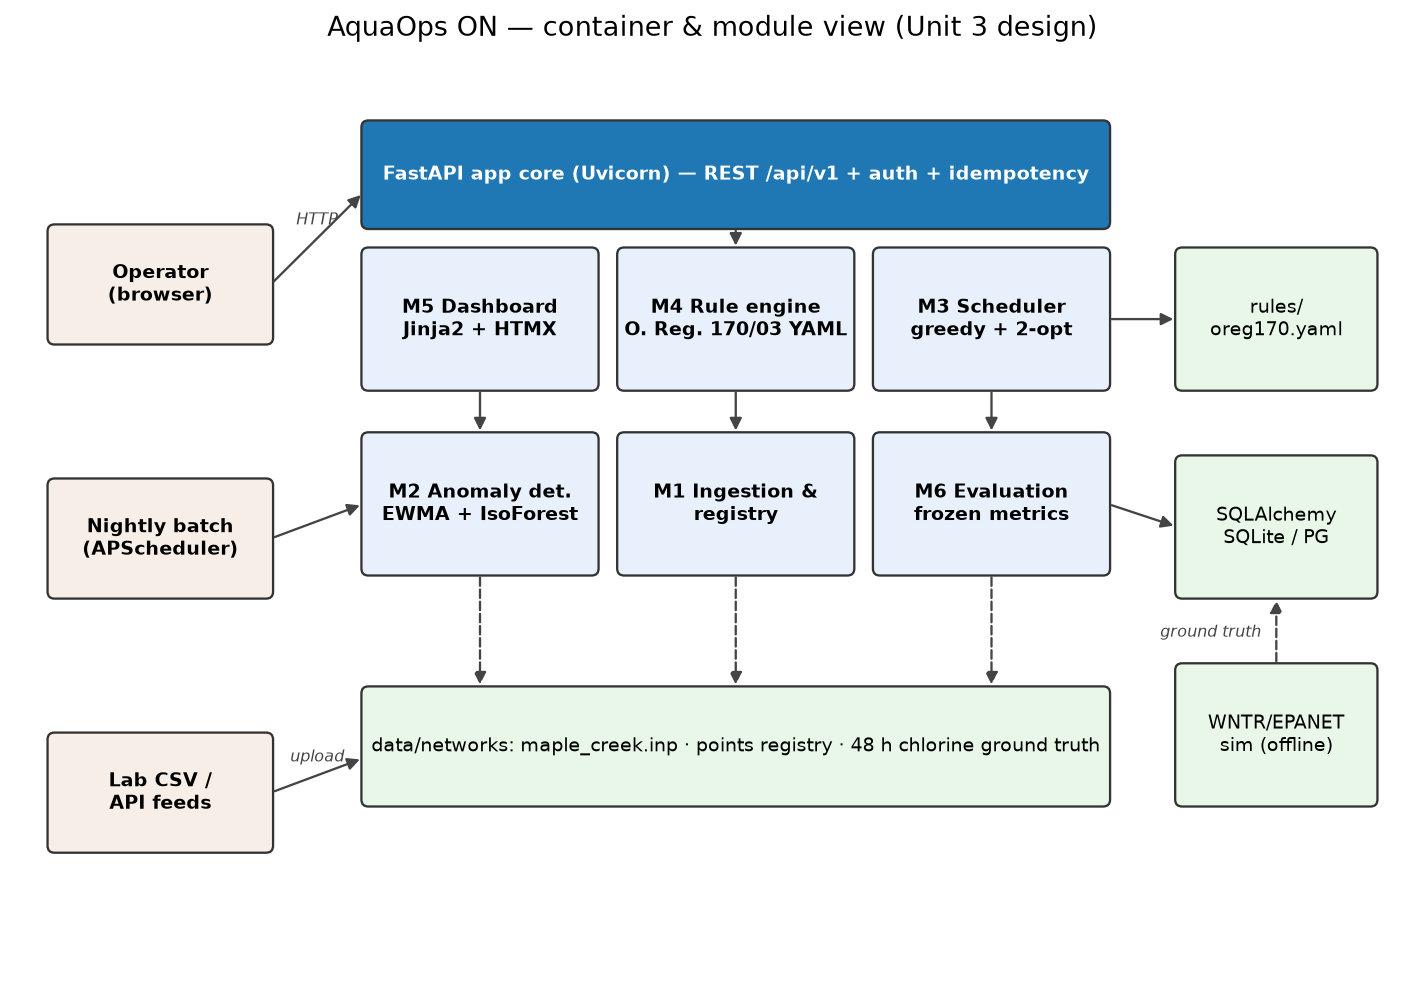
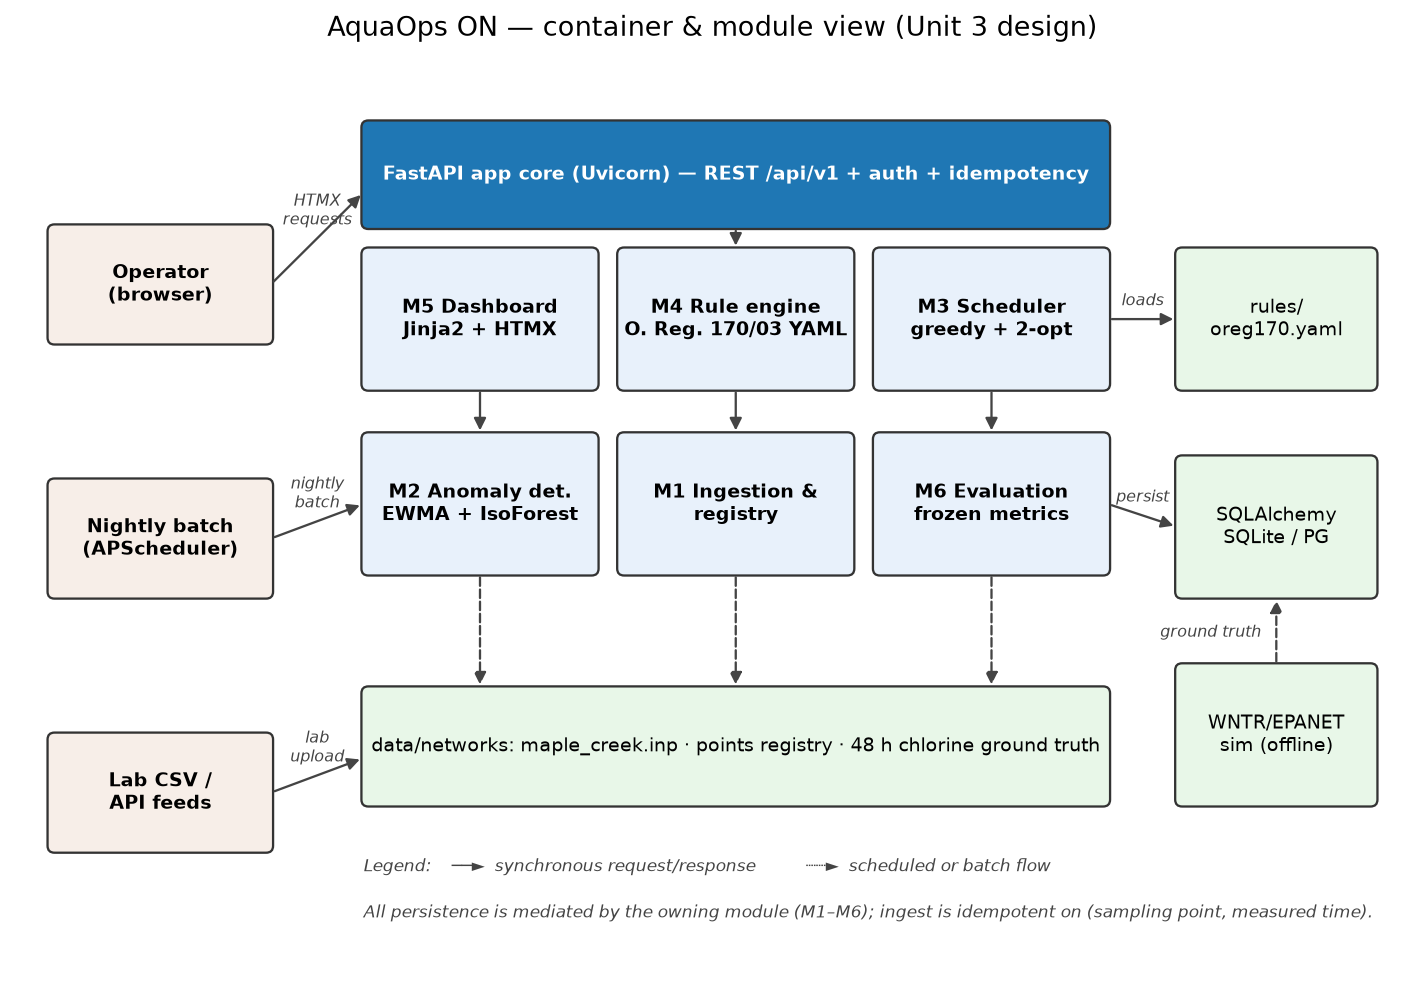
docs(diagrams): label the architecture data flows and add a legend
The module diagram showed boxes and arrows but not what the arrows carry,
which is what the assignment asks the diagram to communicate. Labels the
actor-to-core flows, the rules and persistence edges, and distinguishes
synchronous requests from scheduled or batch flow in a legend.

diff --git a/examples/render_design_diagrams.py b/examples/render_design_diagrams.py
@@ -60,17 +60,22 @@ box(ax, 10.0, 3.4, 1.7, 1.2, "SQLAlchemy\nSQLite / PG", C_DATA)
 box(ax, 10.0, 1.6, 1.7, 1.2, "WNTR/EPANET\nsim (offline)", C_DATA)
 box(ax, 3.0, 1.6, 6.4, 1.0, "data/networks: maple_creek.inp · points registry · 48 h chlorine ground truth", C_DATA)
 
-arrow(ax, 2.2, 6.1, 3.0, 6.9, "HTTP")
-arrow(ax, 2.2, 3.9, 3.0, 4.2)
-arrow(ax, 2.2, 1.7, 3.0, 2.0, "upload")
+arrow(ax, 2.2, 6.1, 3.0, 6.9, "HTMX\nrequests")
+arrow(ax, 2.2, 3.9, 3.0, 4.2, "nightly\nbatch")
+arrow(ax, 2.2, 1.7, 3.0, 2.0, "lab\nupload")
 arrow(ax, 6.2, 6.6, 6.2, 6.4)
 for x in (4.0, 6.2, 8.4):
     arrow(ax, x, 5.2, x, 4.8)
     arrow(ax, x, 3.6, x, 2.6, dashed=True)
-arrow(ax, 9.4, 5.8, 10.0, 5.8)
-arrow(ax, 9.4, 4.2, 10.0, 4.0)
+arrow(ax, 9.4, 5.8, 10.0, 5.8, "loads")
+arrow(ax, 9.4, 4.2, 10.0, 4.0, "persist")
 arrow(ax, 10.85, 2.8, 10.85, 3.4, dashed=True)
 ax.text(10.72, 3.05, "ground truth", fontsize=7.5, ha="right", color="#444444", style="italic")
+ax.text(3.0, 1.02, "Legend:    ──►  synchronous request/response          ┈┈►  scheduled or batch flow",
+        fontsize=8, style="italic", color="#444444")
+ax.text(3.0, 0.62, "All persistence is mediated by the owning module (M1–M6); ingest is idempotent on "
+                   "(sampling point, measured time).",
+        fontsize=8, style="italic", color="#444444")
 
 fig.savefig(OUT / "architecture.png", bbox_inches="tight", dpi=150)
 plt.close(fig)
